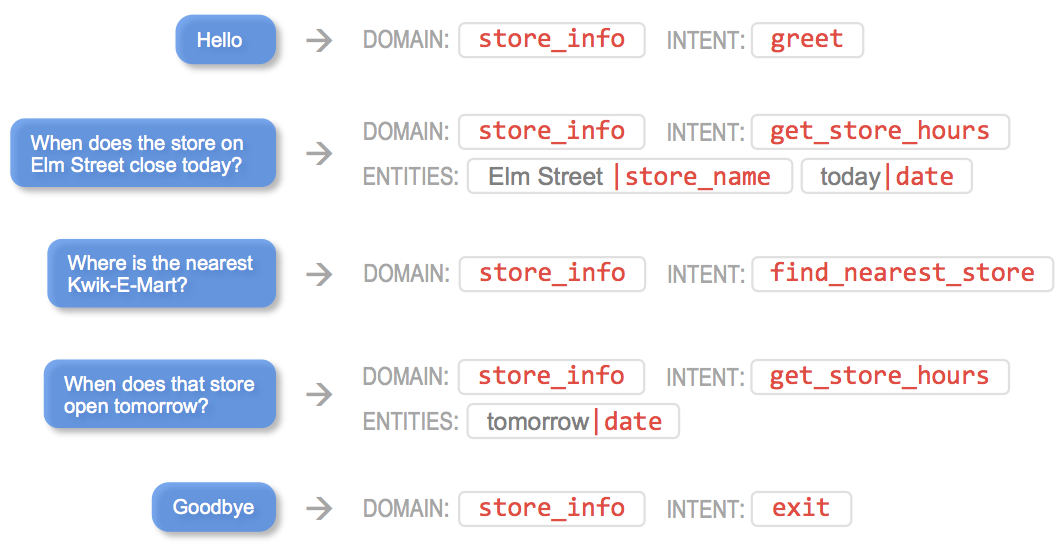
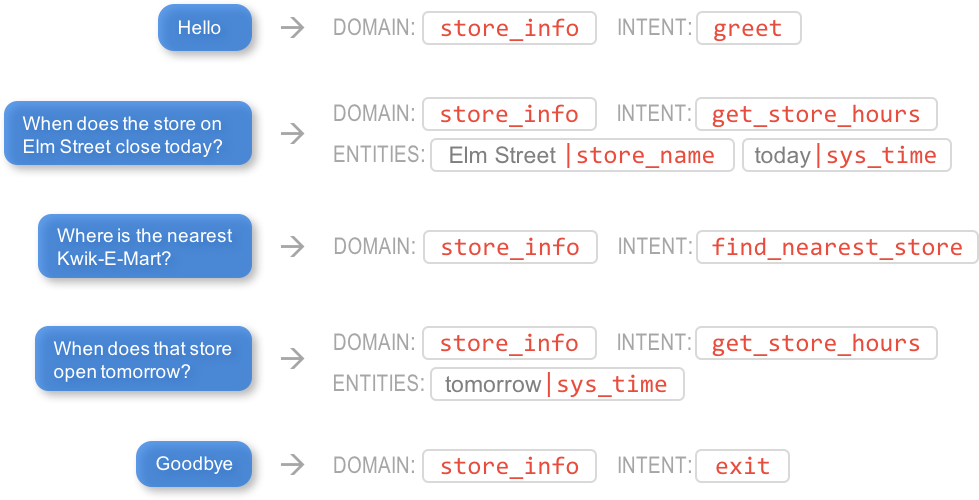
Update ‘date’/‘sys_date’ to ‘sys_time’ in Step-By-Step guide.

diff --git a/docs/source/quickstart/07_train_the_natural_language_processing_classifiers.rst b/docs/source/quickstart/07_train_the_natural_language_processing_classifiers.rst
@@ -167,7 +167,7 @@ Entity Recognition
 
 Entity recognizers (also called entity models) are `sequence labeling <https://en.wikipedia.org/wiki/Sequence_labeling>`_ models that are trained per intent using all the annotated queries in a particular intent folder in the :keyword:`domains` directory. The entity recognizer detects the entities within a query, and labels them as one of the pre-defined entity types.
 
-From the model hierarchy we defined for our Kwik-E-Mart app in :ref:`Step 3 <model_hierarchy>`, we can see that the ``get_store_hours`` intent depends on two types of entities. Of these, ``date`` is a system entity that Workbench recognizes automatically. The ``store_name`` entity, on the other hand, requires custom training data and a trained entity model. Let's look at how to use the :keyword:`NaturalLanguageProcessor` class to train entity recognizers for detecting custom entities in user queries.
+From the model hierarchy we defined for our Kwik-E-Mart app in :ref:`Step 3 <model_hierarchy>`, we can see that the ``get_store_hours`` intent depends on two types of entities. Of these, ``sys_time`` is a system entity that Workbench recognizes automatically. The ``store_name`` entity, on the other hand, requires custom training data and a trained entity model. Let's look at how to use the :keyword:`NaturalLanguageProcessor` class to train entity recognizers for detecting custom entities in user queries.
 
 In this example we use a `Maximum Entropy Markov Model <https://en.wikipedia.org/wiki/Maximum-entropy_Markov_model>`_, which is a good choice for sequence labeling tasks like entity recognition. The features we use include a *gazetteer* , which is a comprehensive list of popular entity names. `Gazetteers <https://gate.ac.uk/sale/tao/splitch13.html#x18-32600013.1>`_ are among the most powerful and commonly used sources of information in entity recognition models. Our example gazetteer for the ``store_name`` entity type is a list of all the Kwik-E-Mart store names in our catalog, stored in a text file called :keyword:`gazetteer.txt` and located in the appropriate subdirectory of the :keyword:`entities` folder. Workbench automatically utilizes any gazetteer named :keyword:`gazetteer.txt` that is located within an entity folder. The example gazetteer file looks like this:
 

diff --git a/docs/source/quickstart/06_generate_representative_training_data.rst b/docs/source/quickstart/06_generate_representative_training_data.rst
@@ -71,7 +71,7 @@ The :keyword:`exit_queries.txt` file captures many of the different ways a user 
   sayonara
   ...
 
-The :keyword:`get_store_hours_queries.txt` file captures ways that a user might ask about store hours. In this file, we see the annotation scheme for inline entities, because the ``get_store_hours`` intent supports the two entity types: ``store_name`` and ``date``, as you might recall from :doc:`Step 3 <03_define_the_hierarchy>`.
+The :keyword:`get_store_hours_queries.txt` file captures ways that a user might ask about store hours. In this file, we see the annotation scheme for inline entities, because the ``get_store_hours`` intent supports the two entity types: ``store_name`` and ``sys_time``, as you might recall from :doc:`Step 3 <03_define_the_hierarchy>`.
 
 .. code-block:: text
 
@@ -83,7 +83,7 @@ The :keyword:`get_store_hours_queries.txt` file captures ways that a user might 
   Can you check if the {Main St|store_name} store is open on {Sunday|sys_time}?
   ...
 
-As the example shows, each inline entity is appended by the pipe character followed by its associated entity type, then the entire expression is enclosed in curly braces. Annotations for names of *system entities*, which are built into Workbench, begin with :keyword:`sys_`. In the example, :keyword:`date` is a system entity. This simple annotation scheme provides a convenient way to label entities in order to derive the training data required to train the entity recognizer models.
+As the example shows, each inline entity is appended by the pipe character followed by its associated entity type, then the entire expression is enclosed in curly braces. Annotations for names of *system entities*, which are built into Workbench, begin with :keyword:`sys_`. In the example, :keyword:`time` is a system entity. This simple annotation scheme provides a convenient way to label entities in order to derive the training data required to train the entity recognizer models.
 
 .. _roles_example:
 

diff --git a/docs/source/quickstart/08_configure_the_language_parser.rst b/docs/source/quickstart/08_configure_the_language_parser.rst
@@ -105,6 +105,6 @@ Some of the entities in the Natural Language Processor's output now include a :k
 
 The Workbench language parser is a versatile component which can be used to implement a variety of parsing strategies for your application. The :ref:`User Guide <userguide>` explains the different options available to fine-tune the behavior of the parser, and covers how to define your own custom parsing logic and train a state-of-the-art statistical parser using annotated data.
 
-Not every scenario warrants using the language parser. For instance, in our simple Kwik-E-Mart store information app, the two kinds of entities, ``date`` and ``store_name``, are distinct and unrelated pieces of information. Running the parser would only yield two singleton entity groups with heads but no dependents.
+Not every scenario warrants using the language parser. For instance, in our simple Kwik-E-Mart store information app, the two kinds of entities, ``sys_time`` and ``store_name``, are distinct and unrelated pieces of information. Running the parser would only yield two singleton entity groups with heads but no dependents.
 
 The parser matters when your application supports more complex natural language queries like the parse tree example discussed above. Once the language parser identifies the heads and their dependents, and links them together into logical units (entity groups), downstream components can use this information to determine appropriate actions and generate responses that fulfill the user's request.

diff --git a/docs/source/quickstart/03_define_the_hierarchy.rst b/docs/source/quickstart/03_define_the_hierarchy.rst
@@ -108,7 +108,7 @@ Running the :keyword:`blueprint()` method for our simple example application pro
 See the :ref:`User Guide <userguide>` for more about blueprints, and root folder organization and structure.
 
 
-Notice that there is no folder for the ``date`` entity. None is needed, because ``date`` is a *system entity*, meaning that it is already built into the Workbench platform. Workbench provides several different system entity types for common, domain-independent entities; see the Workbench :ref:`User Guide <userguide>` for details.
+Notice that there is no folder for the ``date`` entity. None is needed, because we can use the Workbench *system entity* for time expressions, ``sys_time``, to capture the date information. A system entity is one that it is already built into the Workbench platform. Workbench provides several different system entity types for common, domain-independent entities; see the Workbench :ref:`User Guide <userguide>` for details.
 
 Given the simple interaction proposed in the preceding section and hierarchy we have now defined, we would expect our trained natural language processing models to yield the results illustrated below.
 
